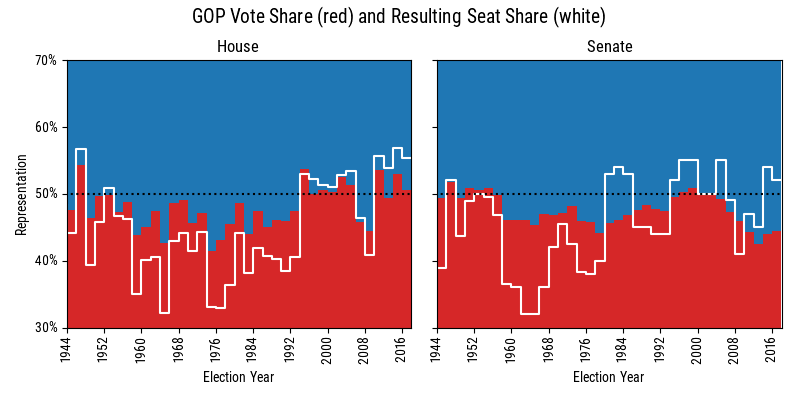
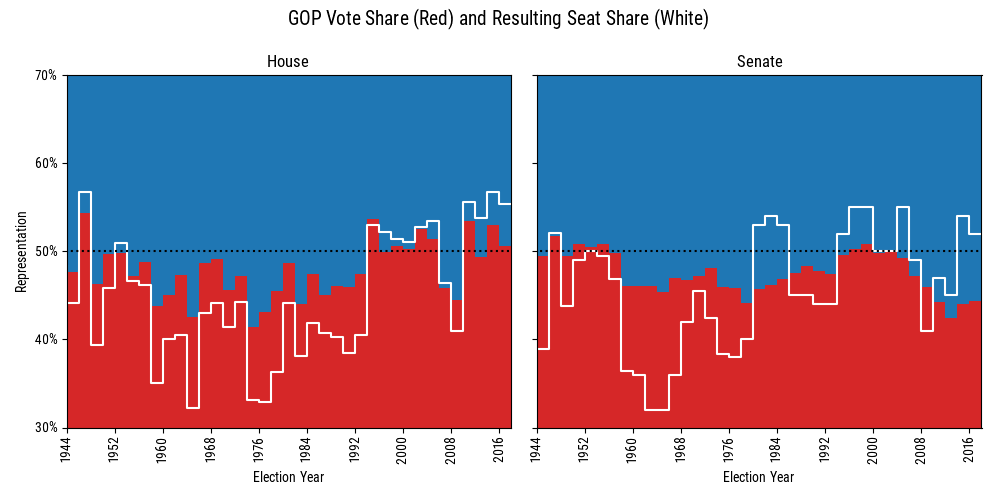
progress on senate piece

diff --git a/_drafts/2018-09-11-abolish-the-senate.md b/_drafts/2018-09-11-abolish-the-senate.md
@@ -1,0 +1,63 @@
+---
+layout: post
+title: "Abolish the Senate"
+image: "/assets/images/votes-seats-thumb.png"
+description: "The founders knew the Senate wouldn't be proportional. But that's not the only problem."
+---
+
+The Senate never offered proportional representation. In 1790, the first census, one third of the population controlled almost two thirds of the Senate[^1]. Since then, it's become a bit worse; [by 2040](https://www.washingtonpost.com/news/politics/wp/2017/11/28/by-2040-two-thirds-of-americans-will-be-represented-by-30-percent-of-the-senate/), 30% of the US population is expected to control 70% of the Senate.
+
+[^1]: Two thirds of the population lived in six states. The other third was spread across ten (and so held 20/32 seats in the Senate).
+
+![](/assets/images/congress-votes-seats.png)
+*In the House, seat allocation (white) is roughly proportional with two-party[^2] vote share (red/blue), with swings at the extremes[^3]. It's very unusual for a minority of voters to control a majority of seats. In the Senate, seats swing wildly. The majority party in the Senate has been elected by a minority of voters about half the time since 1980.*
+
+[^2]: Disproportionate representation is expected when one party is much more popular than the other. For example, if the national popular vote is 60% Republican to 40% Democrat, Democrats will only win districts with a [partisan lean](https://en.wikipedia.org/wiki/Cook_Partisan_Voting_Index) of D+20 or more -- and districts like that are rare!
+
+[^3]: Two-party vote share means votes for third-party candidates are ignored.
+
+Unsurprisingly, such skewed representation was controversial. At the Constitutional Convention, Hamilton called the Senate "[confessedly unjust](http://avalon.law.yale.edu/subject_menus/debcont.asp)." Madison opposed it as well, but ultimately endorsed it as a "[lesser evil](https://www.congress.gov/resources/display/content/The+Federalist+Papers#TheFederalistPapers-62)" -- without such a [compromise](https://en.wikipedia.org/wiki/Connecticut_Compromise), smaller states may have refused to join the union.
+
+Recent retellings tend to be a bit more poetic. Charles C W Cooke, editor of National Review, [writes](https://www.nationalreview.com/2018/07/senate-hasnt-skewed-supreme-court-to-right/):
+
+> Provided that federal power remains in check, the Senate prevents no state from enacting whichever policies it wishes to within its border; it merely prevents a handful of states from riding roughshod over their smaller counterparts on those few questions that are inherently national. Thus was the republic deliberately arranged.
+
+At face value, Cooke's framing seems reasonable. It sounds a lot like the EU, where each state is largely autonomous, but interstate and international relations are facilitated by the union. But it does beg the question: over the past few centuries, which issues have prompted America's small states to throw their weight around in the Senate?
+
+The answer is damning:
+
+- During Jim Crow, local authorities would often turn a blind eye to the lynching of African Americans. The House passed a [bill](https://en.wikipedia.org/wiki/Dyer_Anti-Lynching_Bill) to make lynching a federal crime, but it was filibustered to death in the Senate.
+- In 1946, the House passed a bill abolishing the poll tax for federal elections. It was [halted in the Senate](https://library.cqpress.com/cqalmanac/document.php?id=cqal46-1411331) via filibuster. Poll taxes continued to disenfranchise poor (especially Black) voters in the South until the [24th Amendment](https://en.wikipedia.org/wiki/Twenty-fourth_Amendment_to_the_United_States_Constitution), eighteen years later.
+- Sen Thurmond spoke for over 24 hours straight to filibuster the [Civil Rights Act of 1957](https://en.wikipedia.org/wiki/Civil_Rights_Act_of_1957). This is the longest filibuster in US history.
+- Southern senators filibustered the Civil Rights Act of 1964 for two months. The filibuster was ultimately broken by weakening the bill.
+
+
+-----------
+-----------
+-----------
+
+# SCRATCH
+
+Notably, southern states could not resist the reconstruction amendments to the US constitution because rebel states were controlled by reconstruction governments from the end of the Civil War until 1877.
+
+[Senate website](https://www.senate.gov/artandhistory/history/common/briefing/Filibuster_Cloture.htm): "Filibusters were particularly useful to Southern senators who sought to block civil rights legislation"
+
+Federal powers are far more expansive now than they were in the 18th century. Specifically, the federal government has since taken on an important role that the founders did not envision: defense of minority rights. The civil war and its aftermath were an unprecedented consolidation of federal power. Likewise, all civil rights legislation has infringed upon the rights of states to manage their internal affairs (especially elections).
+
+Current Senate is disproportionate way beyond what the founders would have known. In 1790, the first census, the ratio between the biggest state and the smallest was nine-to-one (Virginia 450k, Delaware 50k). They might have expected states to break up. In the 18th century, borders were in flux within the US. Kentucky was formerly a piece of Virginia, and Vermont was split off of NH/NY. Even national borders weren't settled in the 18th century! Modern-day Germany was divided between Prussia, the Habsburgs, and a number of small states. Italy didn't exist yet. The Ottoman Empire covered Turkey and the Balkans.
+
+[Wikipedia Connecticut Compromise](https://en.wikipedia.org/wiki/Connecticut_Compromise): "Madison argued that a conspiracy of large states against the small states was unrealistic as the large states were so different from each other."
+
+There is value in a bicameral legislature, to divide representation along more than one axis.
+
+To be a bit silly, imagine a chamber with 26 seats, one for each letter of the alphabet. You vote based on your initial. This would probably serve to elevate minority voices -- for example, Yang and Vang are common named among Asian Americans, but few European names start with those letters.
+
+More practically, consider a chamber in which you vote for a seat based on your profession. There's a seat to represent plumbers, another for teachers, another for firefighters, another for programmers. It's likely that this chamber would offer a significantly different perspective from our existing Congress, which is dominated by lawyers.
+
+In that sense, the Senate is fine -- but as a lower chamber. The lower chamber steers the upper and adds friction. Makes unified control of government more difficult, adds incentive to compromise, facilitates novel solutions. But the US Senate is the upper chamber, unambiguously more powerful than the House (in a parliamentary system, it's traditionally the other way around). SCOTUS is the most visible example, but also cabinet confirmations and the filibuster.
+
+Basically no action on civil rights for a century. A few laws passed during reconstruction, but they were dismantled/undermined by state/local laws. Some were struck down by SCOTUS. Substance took a century. Brown v Board of Education (1954), Civil Rights Act (1964), Voting Rights Act (1965)
+
+The fact that the Senate gives a disproportionate voice to southern whites is likely why important civil rights victories were dispensed by SCOTUS rather than being legislated. Brown v Board of Education, Loving v Virginia.
+
+If we're going to give disproportionate representation to one group, why is it rural whites, who (1) are a big enough voting bloc to look out for themselves, and (2) have shitty priorities, specifically racism
